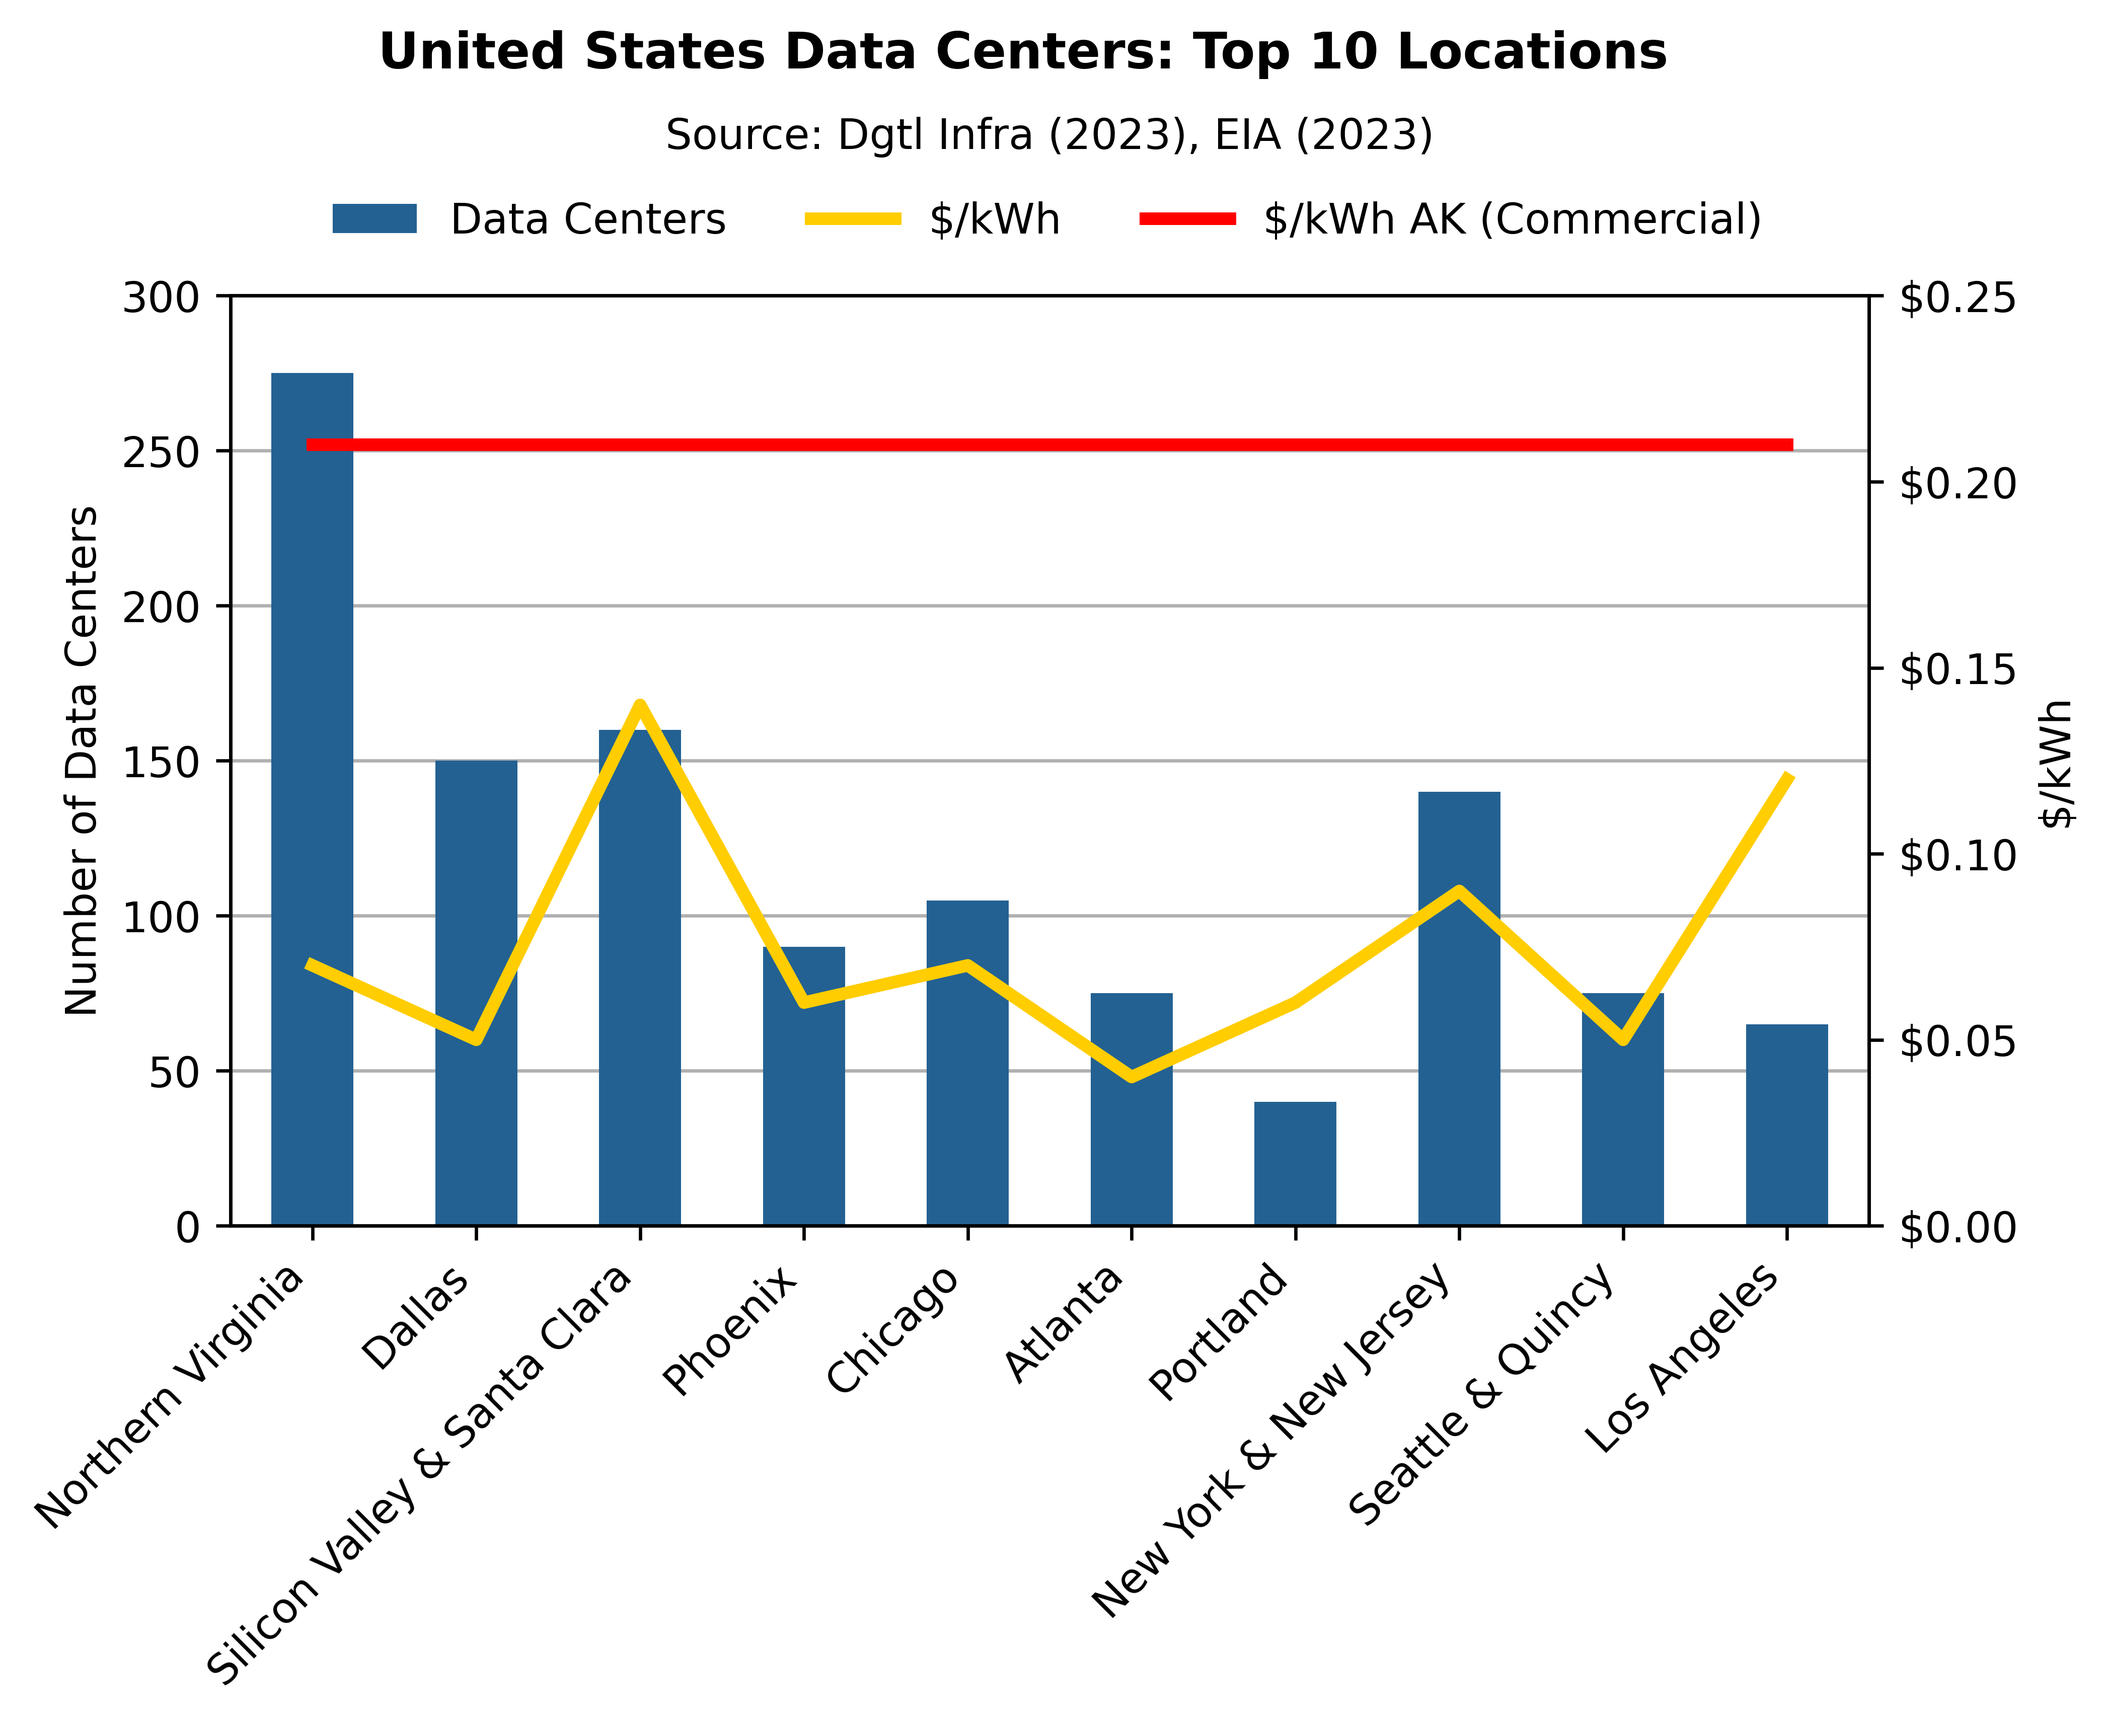
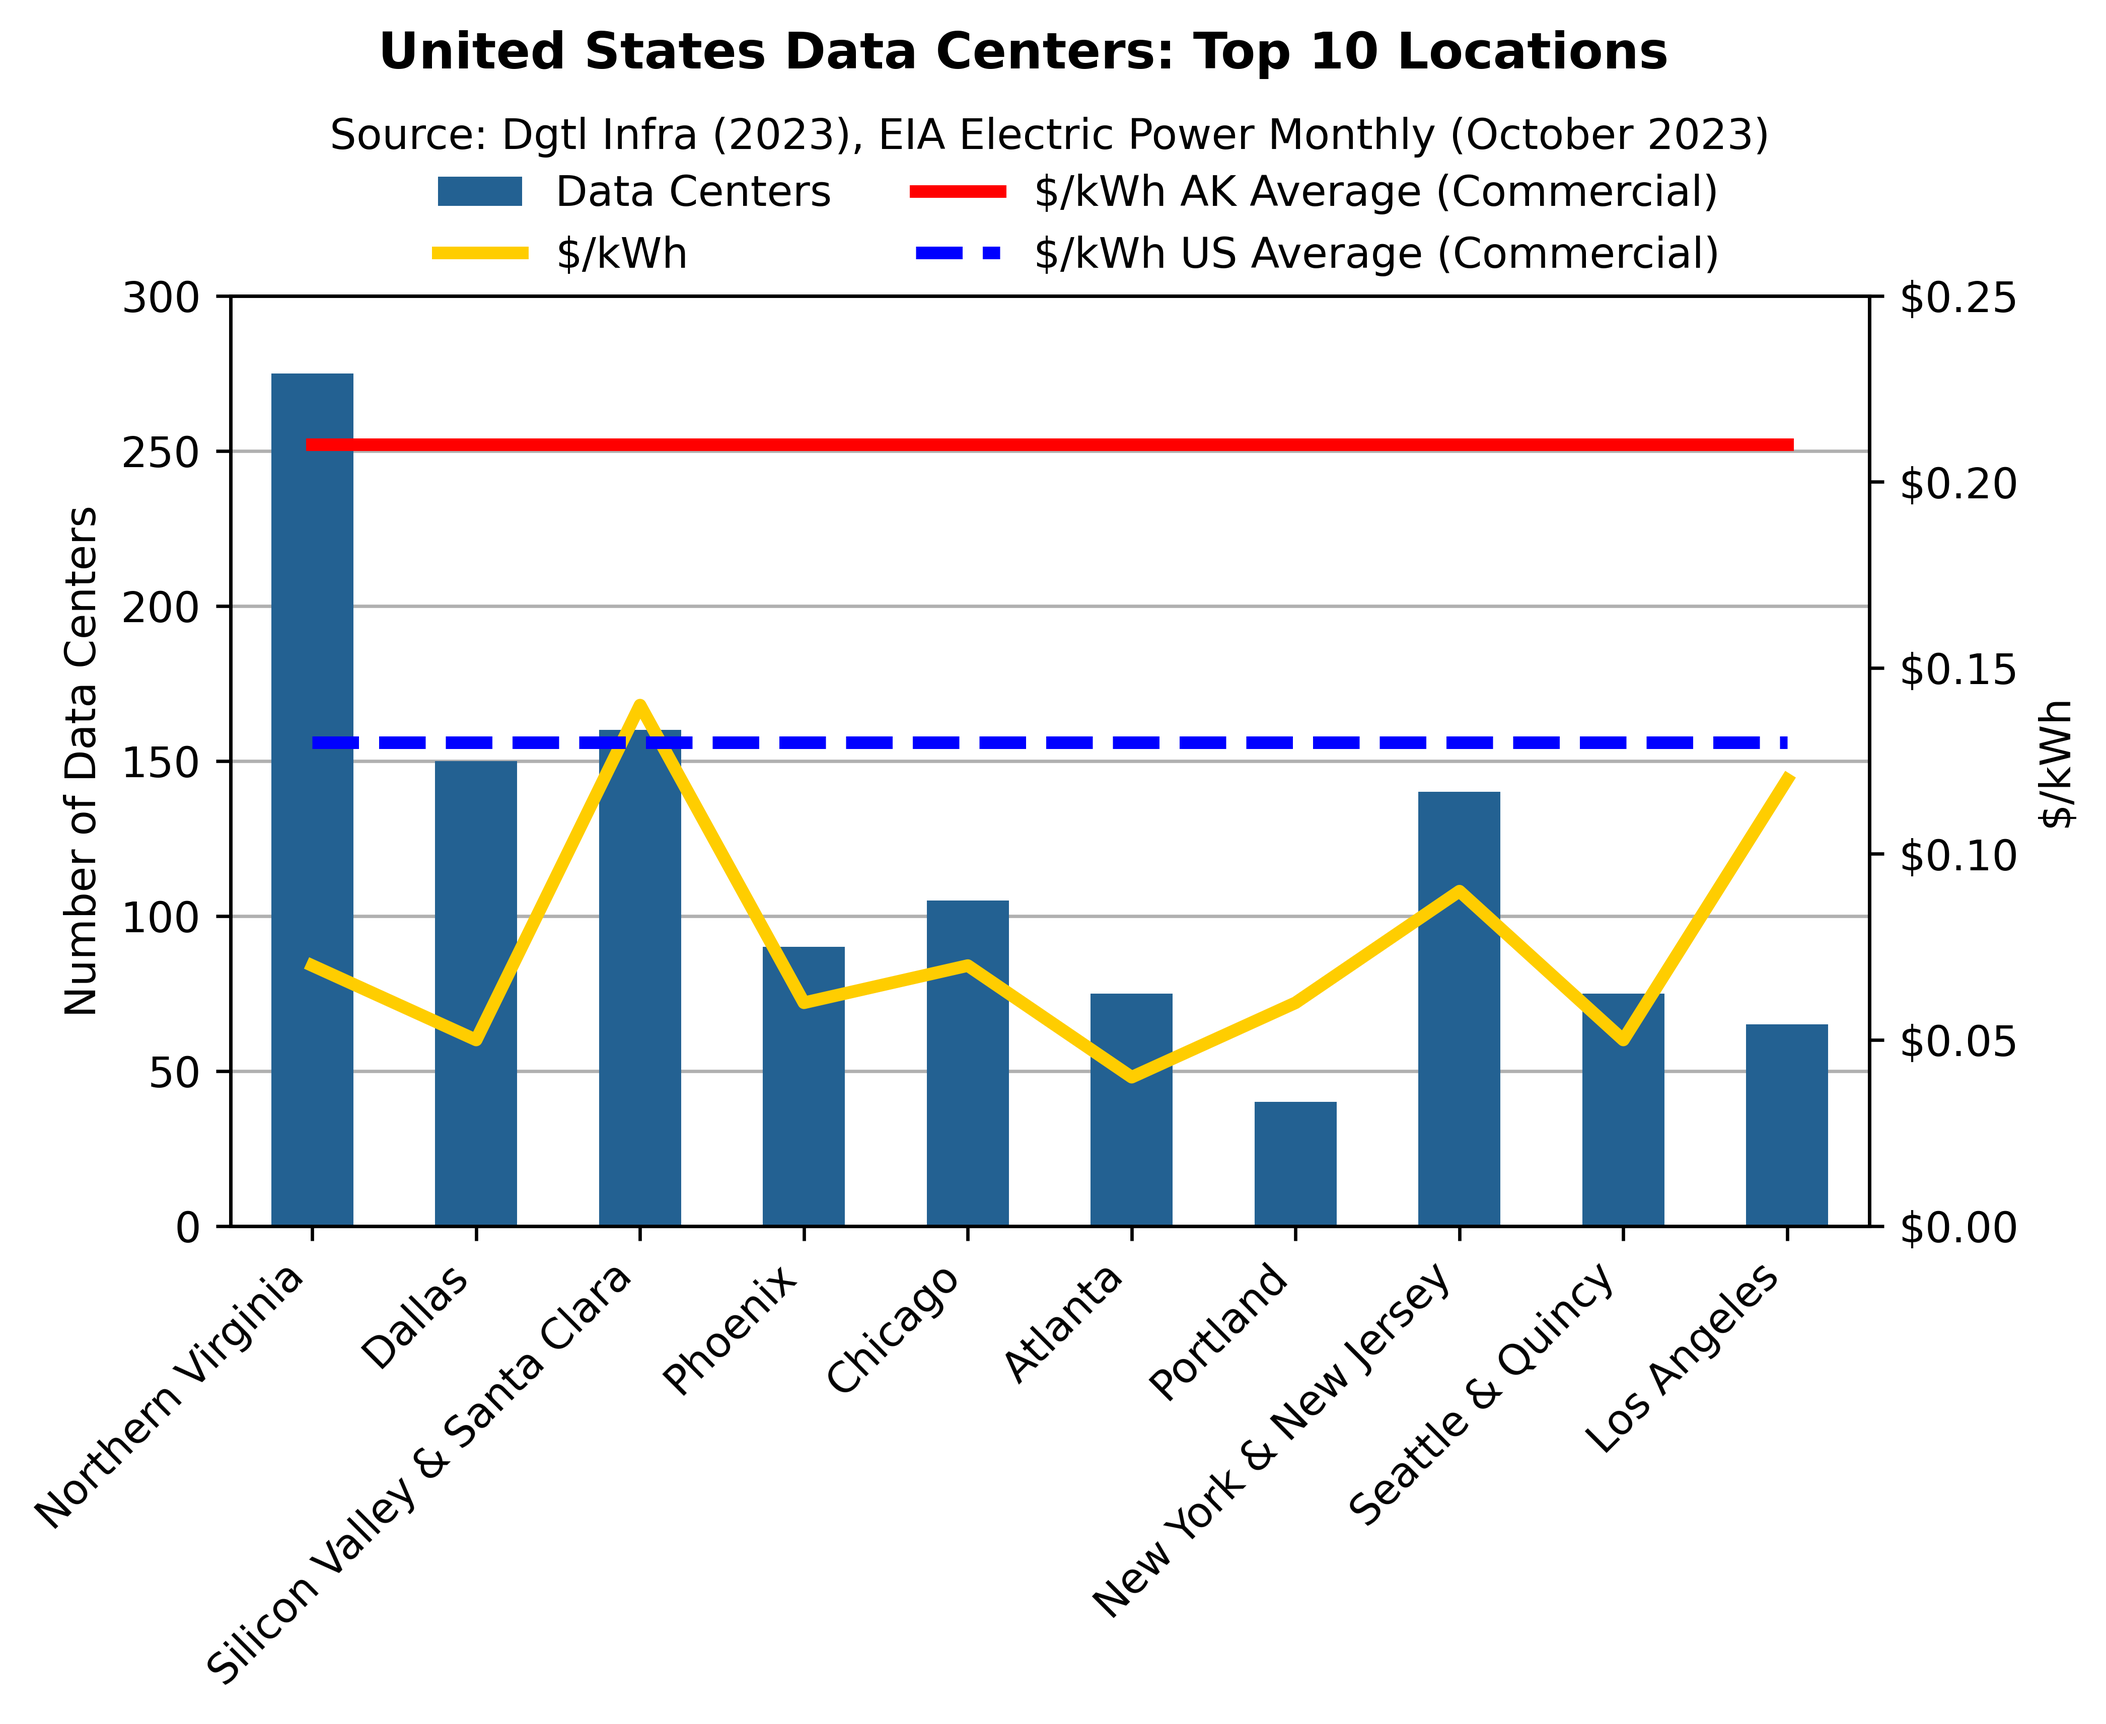
Added average US commercial price per kWh line.

Changed region(s): [[0.1554, 0.0625, 0.8391, 0.1562], [0.1554, 0.4061, 0.8391, 0.4374]]

diff --git a/us-top-data-center-locations/graph-creation.py b/us-top-data-center-locations/graph-creation.py
@@ -19,10 +19,11 @@ ax = df['Data Centers'].plot(kind='bar', color='#236192')
 # Line plot for price data
 ax2 = ax.twinx()
 ax2.plot(ax.get_xticks(),df['p_avg'], color='#FFCD00',linewidth=3, label='$/kWh')
-ax2.plot(ax.get_xticks(),df['p_ak_com'], color='red',linewidth=3, label='$/kWh AK (Commercial)')
+ax2.plot(ax.get_xticks(),df['p_ak_com'], color='red',linewidth=3, label='$/kWh AK Average (Commercial)')
+ax2.plot(ax.get_xticks(),df['p_us_com'], color='blue',linewidth=3, linestyle='dashed', label='$/kWh US Average (Commercial)')
 
 # Adjusting look of bar plot
-ax.set_title('Source: Dgtl Infra (2023), EIA (2023)', fontsize=10, pad=35)
+ax.set_title('Source: Dgtl Infra (2023), EIA Electric Power Monthly (October 2023)', fontsize=10, pad=35)
 ax.set_xticklabels(df['Location'],rotation=45, ha='right')
 ax.set_ylabel('Number of Data Centers')
 ax.set_ylim(bottom=0,top=300)
@@ -38,7 +39,8 @@ for i in range(len(ax2labels)):
 ax2.set_yticklabels(ax2labels)
 
 # Figure legend
-fig.legend(loc=(0.15,.85), ncols=3, fancybox=False, framealpha=0) # hard coding location (not ideal)
+
+fig.legend(loc=(0.20,.83), ncols=2, fancybox=False, framealpha=0) # hard coding location (not ideal)
 
 plt.savefig('us-top-data-center-locations-with-prices.pdf', bbox_inches = 'tight')
 plt.savefig('us-top-data-center-locations-with-prices.png', bbox_inches = 'tight')
